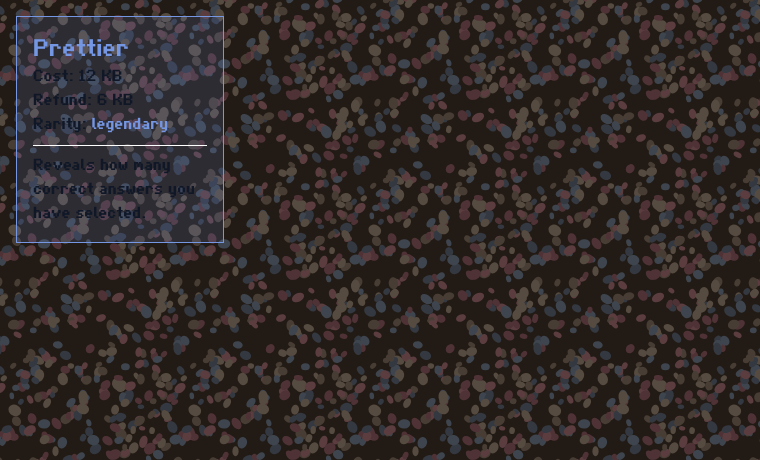
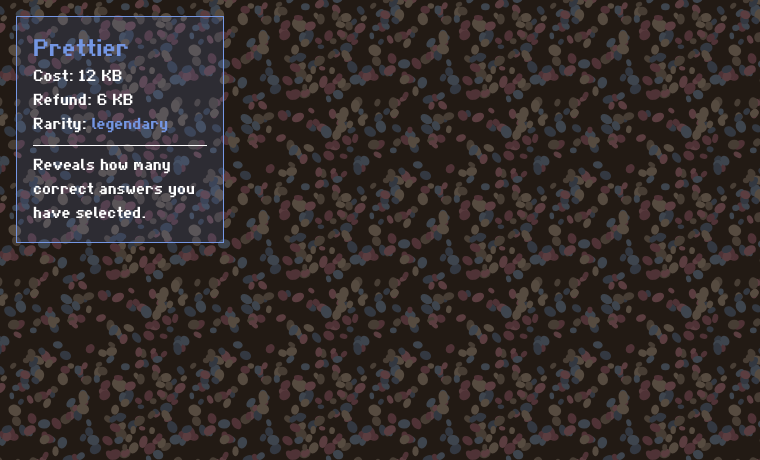
fix(storybook): give stories the app's body colours
__root.tsx puts bg-black and text-white on <body>, so text without its own
colour class inherits light text in the app. Storybook's preview body had
neither and fell back to the base text-gray-900, rendering those headings
near-black on a dark screen.

Claude-Session: https://claude.ai/code/session_01XragerTWNRM11gs7F5vwsn

Changed region(s): [[0.0303, 0.1522, 0.1816, 0.3043], [0.0303, 0.3348, 0.2724, 0.4261], [0.0303, 0.4565, 0.1816, 0.487]]

diff --git a/.storybook/preview.ts b/.storybook/preview.ts
@@ -3,6 +3,10 @@ import { withThemeByClassName } from "@storybook/addon-themes";
 import "../src/styles/app.css";
 import { ACTIVE_SKIN } from "../src/config/skin";
 
+// Mirror the app shell: __root.tsx puts these on <body>, and text without its
+// own colour class inherits from there — without them stories render dark text.
+document.body.classList.add("bg-black", "text-white");
+
 // Mirror the app: the active skin is set on <html>, so stories show it too.
 if (ACTIVE_SKIN) {
 	document.documentElement.dataset.skin = ACTIVE_SKIN;
